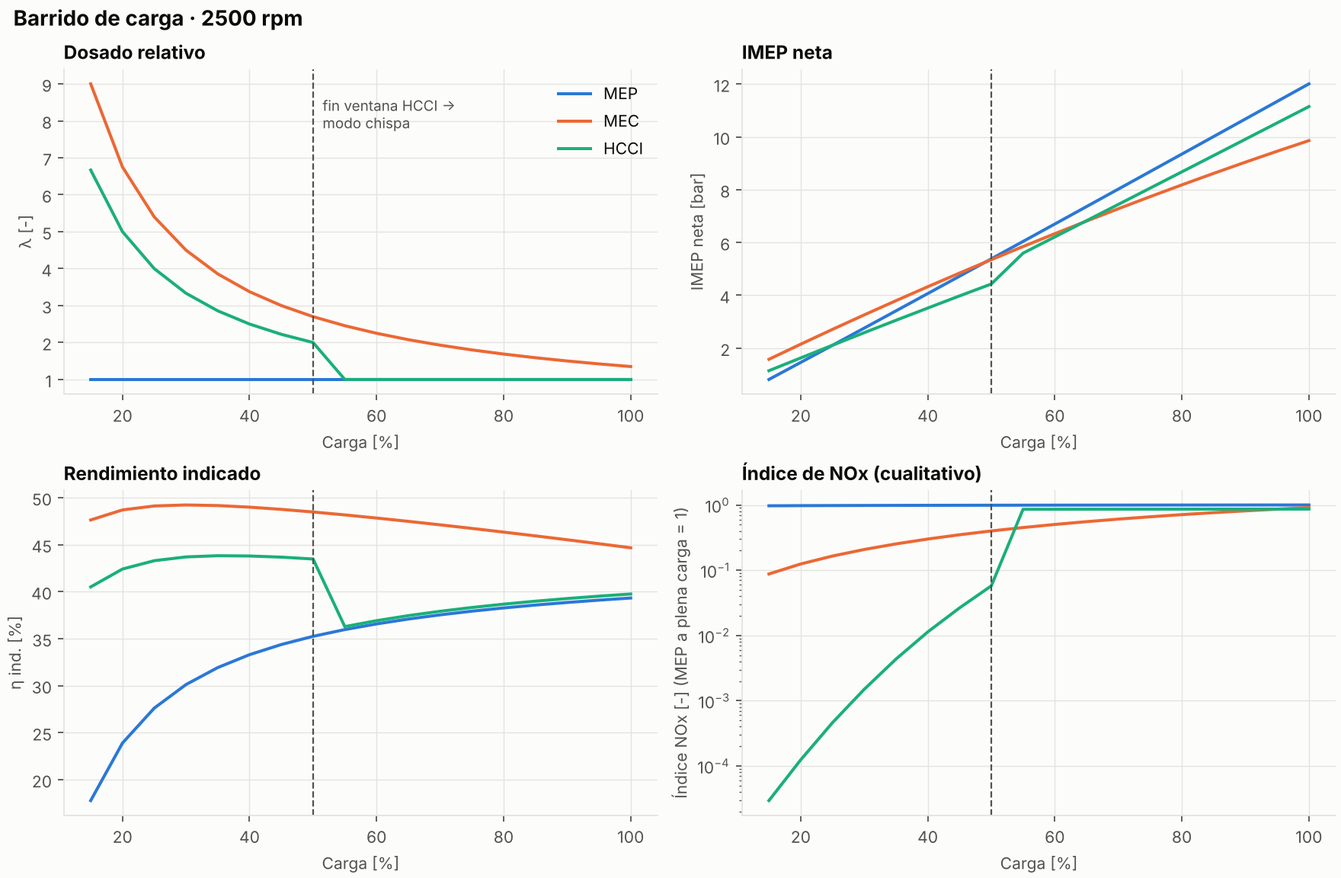
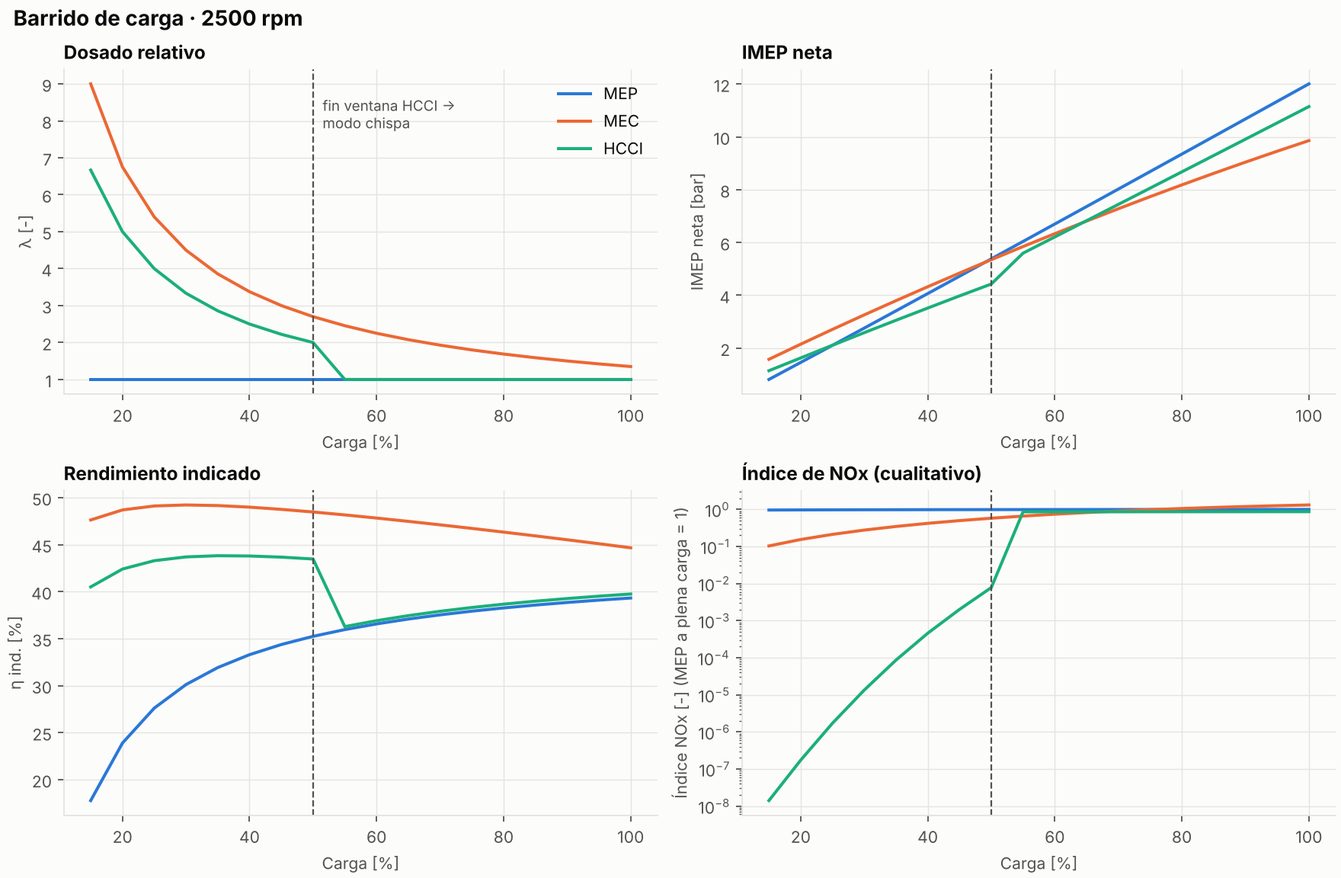
Informe técnico corregido y ampliado; NOx con Zeldovich en equilibrio
- INFORME.md: comparativa MEP/MEC/HCCI, hipótesis con su respuesta,
  combustión anómala y resultados del modelo
- Índice de NOx: T^-1/2·exp(-69090/T)·[O2]^1/2 (Heywood ec. 11.8)

Claude-Session: https://claude.ai/code/session_01TiA9G423HdKVvNT7MMUAoF

diff --git a/motor0d/modelo.py b/motor0d/modelo.py
@@ -248,7 +248,9 @@ def ciclo(mot: Motor, carga: float, n: float, *, geo: Geometria = GEO,
     Tb = Tu + mot.eta_comb * mot.LHV / ((1 + lam_fl * mot.AFR_st) * 1450)  # sin disociación
     Tb = np.where(xb >= 0.01, Tb, np.nan)
     x_o2b = max(0.21 * (lam_fl - 1) / lam_fl, 0.01)       # suelo ~ O2 por disociación
-    tasa = (lam_fl / lam) * xb * np.exp(-38370 / np.nan_to_num(Tb, nan=1.0)) * np.sqrt(x_o2b)
+    Tb_ = np.nan_to_num(Tb, nan=1.0)
+    # Zeldovich con [O] en equilibrio (Heywood, ec. 11.8): d[NO]/dt ∝ T^-1/2·exp(-69090/T)·[O2]^1/2
+    tasa = (lam_fl / lam) * xb * Tb_**-0.5 * np.exp(-69090 / Tb_) * np.sqrt(x_o2b)
     nox = float(np.trapezoid(tasa, th) / (6 * n))
 
     return Resultado(

diff --git a/matlab/simulacion_motores.m b/matlab/simulacion_motores.m
@@ -303,7 +303,8 @@ function r = cicloCerrado(mot, geo, amb, opts, carga, n)
     Tb   = Tu + dTad;  Tb(xb < 0.01) = NaN;               % sin disociación: sobreestima
     r.Tb = Tb;
     xO2b = max(0.21*(lamFl - 1)/lamFl, 0.01);             % suelo ~ O2 por disociación
-    tasa = (lamFl/lambda)*xb.*exp(-38370./Tb)*sqrt(xO2b);  tasa(isnan(tasa)) = 0;
+    % Zeldovich con [O] en equilibrio (Heywood, ec. 11.8): d[NO]/dt ~ T^-1/2 exp(-69090/T) [O2]^1/2
+    tasa = (lamFl/lambda)*xb.*Tb.^-0.5.*exp(-69090./Tb)*sqrt(xO2b);  tasa(isnan(tasa)) = 0;
     r.noxIdx = trapz(th, tasa)/(6*n);                     % integral temporal
 end
 

diff --git a/main.py b/main.py
@@ -28,7 +28,7 @@ def tabla_referencia(ref, carga, n):
         ca50 = f"{r.ca50:+.1f}" if r.ca50 is not None else "–"
         filas.append(f"| {r.motor} | {r.modo} | {r.lam:.2f} | {r.T_ivc:.0f} | {ca50} | "
                      f"{r.imep_n/1e5:.2f} | {r.eta_i*100:.1f} | {r.pmax/1e5:.1f} | "
-                     f"{r.dpmax/1e5:.2f} | {r.Tmax:.0f} | {r.nox/nox_mep:.3f} |")
+                     f"{r.dpmax/1e5:.2f} | {r.Tmax:.0f} | {r.nox/nox_mep:.3g} |")
     return "\n".join(filas)
 
 

diff --git a/INFORME.md b/INFORME.md
@@ -1,0 +1,308 @@
+# MEP, MEC y HCCI: cómo queman, por qué y qué los limita
+
+Informe técnico que acompaña al modelo de este repositorio. Está organizado alrededor de preguntas concretas (las hipótesis que surgieron al estudiar los tres motores), cada una con su respuesta. Los resultados numéricos salen del modelo 0D descrito en el [README](README.md) y se pueden reproducir en el [simulador interactivo](https://maikelgth.github.io/motores-termicos/comparativa-mep-mec-hcci/).
+
+**Contenido**
+
+1. [Los tres motores de un vistazo](#1-los-tres-motores-de-un-vistazo)
+2. [Premezcla y difusión](#2-premezcla-y-difusión)
+3. [MEP: mezcla homogénea y estratificada](#3-mep-mezcla-homogénea-y-estratificada)
+4. [MEC: inyección, movimiento del aire y hollín](#4-mec-inyección-movimiento-del-aire-y-hollín)
+5. [HCCI y SPCCI](#5-hcci-y-spcci)
+6. [Hipótesis planteadas](#6-hipótesis-planteadas)
+7. [Combustión anómala y fallos mecánicos](#7-combustión-anómala-y-fallos-mecánicos)
+8. [Lo que dice el modelo](#8-lo-que-dice-el-modelo)
+9. [Referencias](#9-referencias)
+
+---
+
+## 1. Los tres motores de un vistazo
+
+| | MEP (gasolina) | MEC (diésel) | HCCI |
+|---|---|---|---|
+| Relación de compresión | 9:1 a 13:1 (hasta 14:1 con gasolina de alto octanaje y control de picado) | 15:1 a 22:1 (DI moderno 15–18; IDI hasta 22–23) | 12:1 a 18:1 |
+| Mezcla al encender | Premezclada y homogénea, λ = 1 (estratificada en algunos GDI a carga parcial) | Heterogénea: chorro de líquido en aire caliente | Premezclada, homogénea y pobre (λ ≈ 2–4) o muy diluida con EGR |
+| Inicio de la combustión | Chispa: lo fija el avance de encendido | Autoignición tras la inyección: lo fija el instante de inyección | Autoignición de toda la carga: lo fija la química (p, T, composición) |
+| Tipo de llama | Frente de llama turbulento que barre la cámara | Fase premezclada corta y llama de difusión | Sin frente de llama: reacción casi simultánea en todo el volumen |
+| Control de la carga | Por cantidad: mariposa (pérdidas de bombeo) | Por calidad: cantidad de combustible, sin mariposa | Por calidad, dentro de una ventana estrecha |
+| Contaminantes críticos | CO, HC y NOx, que se tratan juntos con el catalizador de tres vías | NOx y hollín | HC y CO (combustión fría); NOx muy bajo |
+| Postratamiento típico | Catalizador de tres vías (TWC); filtro de partículas en GDI | DOC + DPF + SCR (urea) o trampa de NOx (LNT) | Catalizador de oxidación |
+| Limitación principal | Picado: limita la relación de compresión | Mezcla: limita el régimen; compromiso NOx-hollín | Control de la autoignición; ventana de carga estrecha |
+
+---
+
+## 2. Premezcla y difusión
+
+Una **llama de premezcla** quema una mezcla en la que combustible y aire ya estaban juntos antes de encender. Es la del MEP: la chispa crea un núcleo y un frente de llama avanza por la cámara consumiendo la mezcla fresca.
+
+Una **llama de difusión** quema combustible y aire que llegan separados. La reacción solo ocurre en la superficie donde se encuentran, y la velocidad de combustión queda limitada por lo rápido que se mezclan. Es la del MEC (y la de una vela).
+
+Dos correcciones habituales:
+
+- **La llama de premezcla no es supersónica.** Es una deflagración. La velocidad laminar de una gasolina estequiométrica es de unos 0,3–0,5 m/s; la turbulencia de la cámara la multiplica hasta del orden de 10 m/s, frente a velocidades del sonido de 500–900 m/s en el gas caliente. La combustión de un MEP dura 40–60° de cigüeñal porque la turbulencia crece con el régimen.
+- **La llama de difusión no es "lenta" en sí.** Su velocidad la marca la mezcla, y la mezcla depende de la energía del chorro y del movimiento del aire. Lo que limita al diésel es que, a alto régimen, el tiempo disponible (en milisegundos) se acorta más rápido de lo que se puede acelerar la mezcla. Por eso los diésel de turismo rara vez pasan de 4500–5000 rpm.
+
+**Por qué un MEP no usa difusión.** La gasolina resiste la autoignición (es lo que mide el octanaje), así que no arde de forma fiable al entrar en el aire comprimido. Además, el catalizador de tres vías solo funciona en una ventana muy estrecha alrededor de λ = 1 (del orden de ±0,5 %). Una combustión de difusión, con zonas ricas y pobres, generaría hollín y CO en unas y NOx en otras.
+
+---
+
+## 3. MEP: mezcla homogénea y estratificada
+
+### Homogénea
+
+El combustible entra durante la admisión (inyección en el colector, PFI, o directa temprana, GDI) y tiene toda la admisión y la compresión para mezclarse. En la bujía hay mezcla estequiométrica y el frente de llama puede recorrer toda la cámara. Es el modo de plena carga, porque aprovecha todo el aire.
+
+### Estratificada
+
+Solo es posible con **inyección directa**. A carga parcial se abre la mariposa y se inyecta tarde, al final de la compresión, para formar una nube inflamable alrededor de la bujía rodeada de aire o de mezcla muy pobre. Globalmente la mezcla es pobre.
+
+- **Por qué reduce el bombeo.** En un MEP homogéneo la carga se regula estrangulando el aire con la mariposa. El pistón aspira contra un vacío en el colector y ese trabajo se pierde: es el bombeo (PMEP). Con la mariposa abierta y la carga regulada con el combustible, como en un diésel, el bombeo casi desaparece. En el modelo, el MEP al 40 % de carga pierde 0,66 bar de PMEP frente a 0,05 bar del HCCI.
+- **Por qué no causa picado.** El picado lo produce la autoignición del gas sin quemar de la periferia (*end-gas*). Si esa zona es aire o mezcla muy pobre, el riesgo baja mucho. "Imposible" es demasiado: la estratificación nunca es perfecta. En la práctica el picado deja de ser el límite a carga parcial.
+- **Cuándo se usa.** A carga parcial y régimen moderado: crucero, ciudad a velocidad constante. Al pedir par, la centralita vuelve a homogénea con λ = 1 (o algo rica a plena carga). En retención se corta la inyección.
+- **El problema que no se suele contar.** Con mezcla pobre el catalizador de tres vías no reduce NOx, porque sobra oxígeno en el escape. Los GDI estratificados necesitan una **trampa de NOx (LNT)**: almacena el NOx en forma de nitratos durante el funcionamiento pobre y lo reduce con breves pulsos ricos. Es sensible al azufre del combustible. Ese coste, unido a las normas Euro 6, hizo que la mayoría de fabricantes abandonasen la estratificación y volviesen a GDI homogéneo con λ = 1.
+
+**Inyección y chispa.** En homogéneo están separadas: inyección en admisión, chispa al final de la compresión. En estratificado, el final de la inyección y la chispa quedan muy próximos (unos pocos grados de cigüeñal), porque la chispa tiene que coincidir con la nube en la bujía.
+
+**Cómo se lleva la nube a la bujía.**
+
+- **Guiado por pared.** El chorro choca con un cuenco asimétrico del pistón que lo desvía hacia la bujía, ayudado por el tumble. Es simple, pero moja el pistón: aumentan los HC y las partículas.
+- **Guiado por chorro.** Un inyector central (piezoeléctrico en BMW N53 o Mercedes CGI) pulveriza junto a la bujía y la nube se forma en el aire, sin tocar el pistón. Es más limpio, pero muy sensible a la posición de la bujía y al ensuciamiento.
+
+---
+
+## 4. MEC: inyección, movimiento del aire y hollín
+
+Al final de la compresión de un diésel el aire está a 40–100 bar y **700–900 K** (unos 430–630 °C; más con turbo). El modelo da unos 890 K con r<sub>c</sub> = 17,5. A esas condiciones el gasóleo se autoinflama con un retraso de encendido de alrededor de 1 ms.
+
+### Heterogénea, pero buscando mezclar
+
+La mezcla del diésel es heterogénea por naturaleza: chorro líquido, gotas que se evaporan, vapor rico y aire. El objetivo no es "homogeneizar" antes de quemar, sino mezclar el combustible con el oxígeno lo más rápido posible mientras arde. Donde falta oxígeno se forma hollín, y donde la mezcla está cerca de λ = 1 la temperatura de llama es máxima y se forma NOx. Ese es el compromiso NOx-hollín del diésel.
+
+### Movimiento del aire
+
+Tomando el eje del cilindro como eje z:
+
+- **Swirl.** Rotación del aire alrededor del eje z. Se genera en la admisión con conductos helicoidales o tangenciales y se mantiene durante la compresión. Típico del diésel.
+- **Tumble.** Rotación alrededor de un eje horizontal, perpendicular al del cilindro. Se genera con conductos de admisión casi verticales. Al comprimirse se rompe en turbulencia fina. Típico del MEP.
+- **Squish.** Flujo radial hacia el centro cerca del PMS, cuando la corona plana del pistón se acerca a la culata y expulsa el gas hacia el cuenco (*bowl*).
+
+El diésel necesita más intensidad de mezcla que el MEP porque dispone de milisegundos en vez de una carrera completa.
+
+### IDI y DI
+
+- **IDI (inyección indirecta).** Se inyecta en una precámara (de turbulencia o de combustión) unida al cilindro por un canal. El aire entra en ella a gran velocidad durante la compresión y la mezcla es fácil, con presiones de inyección moderadas (del orden de 100–400 bar). A cambio tiene más superficie de pared y pérdidas de calor y por estrangulamiento: consume más, necesita relaciones de compresión altas (20–23:1) y bujías de precalentamiento para arrancar.
+- **DI (inyección directa).** Se inyecta en el cuenco del pistón. La energía de mezcla la aporta el propio chorro, con presiones de common rail de 1600–2700 bar y orificios de ~0,1 mm. Es más eficiente y ha desplazado a la IDI en turismos.
+
+### Secuencia de inyección (common rail)
+
+La inyección no es continua: la centralita reparte el combustible en varios pulsos por ciclo.
+
+1. **Piloto (una o dos).** Pequeñas cantidades antes de la principal. Calientan la carga y acortan el retraso de la principal, así que se acumula menos combustible antes de encender y la fase premezclada es más suave. Reducen ruido (el "picado diésel") y NOx.
+2. **Principal.** El grueso del combustible. Puede partirse para controlar la forma de la liberación de calor, el ruido y las emisiones. No busca una "combustión isobara real": el ciclo Diesel isobaro es una idealización.
+3. **Post-inyección cercana.** Justo después de la principal. Se quema y aporta turbulencia y temperatura que ayudan a oxidar el hollín formado.
+4. **Post-inyección tardía.** En plena expansión, cuando ya no se quema en el cilindro. El combustible llega al catalizador de oxidación (DOC), se oxida allí y eleva la temperatura del escape para regenerar el filtro de partículas. Su efecto secundario es que parte del combustible acaba en el aceite (dilución).
+
+### El hollín
+
+El hollín son partículas de carbono sólido. Se forma en zonas ricas a 1600–2400 K: el combustible se descompone (pirólisis), forma hidrocarburos aromáticos policíclicos (PAH), estos nuclean partículas primarias de 15–40 nm, que crecen y se aglomeran en cadenas de ~100 nm. La mayor parte se vuelve a oxidar dentro del cilindro; lo que sale es la diferencia entre formación y oxidación.
+
+Supone energía química desperdiciada, ensucia la EGR y el turbo, y es un riesgo sanitario: la IARC clasifica el escape diésel como cancerígeno (grupo 1) desde 2012.
+
+**El filtro de partículas (DPF)** retiene más del 95 % de las partículas en masa y hay que regenerarlo:
+
+- **Regeneración pasiva.** El NO₂ que genera el DOC oxida el hollín a 250–450 °C, en uso normal.
+- **Regeneración activa.** Se sube el escape a ~600 °C con post-inyección tardía para quemar el hollín con oxígeno.
+
+---
+
+## 5. HCCI y SPCCI
+
+### HCCI
+
+Se crea una mezcla homogénea y pobre (o diluida con EGR) y la compresión la lleva a la autoignición, que ocurre casi a la vez en todo el volumen.
+
+- **Ventajas.**
+  - Sin mariposa ni bombeo, con relación de compresión alta y combustión rápida cerca del PMS, el rendimiento se acerca al del diésel.
+  - La mezcla pobre o diluida mantiene la temperatura de combustión baja, por debajo de unos 1800–1900 K, así que el NOx es **muy bajo** (no cero).
+  - Al no haber zonas ricas, el hollín es prácticamente nulo.
+- **Inconvenientes.**
+  - A muy baja carga la combustión queda tan fría (por debajo de unos 1500 K) que el CO no termina de oxidarse y los HC suben: cae el rendimiento de combustión.
+  - Por arriba, la carga está limitada por el **ringing**: al liberar el calor de golpe, el gradiente de presión supera el límite habitual de 5–10 bar/° y aparecen oscilaciones de presión parecidas al picado.
+  - El resultado es una ventana útil de carga estrecha.
+- **El problema de control.** En un MEP el inicio lo marca la chispa y en un MEC la inyección. En el HCCI lo marca la cinética química, que depende de la temperatura y la presión en el cierre de admisión, de la composición (λ, EGR, residuales), del combustible y de la temperatura de las paredes. En transitorios, como pasar de retención a acelerar, todo eso cambia de un ciclo a otro. Los extremos son el fallo de encendido y el ringing. El término *super-knock* no se aplica aquí: designa la pre-ignición a bajo régimen de los MEP turbo (LSPI, sección 7).
+
+**Cómo se controla en la práctica.** Actuando sobre la temperatura de la carga:
+
+- **Retención de gases calientes** mediante cruce negativo de válvulas (NVO) o reapertura de la válvula de escape.
+- **EGR caliente o refrigerada.**
+- **Calentamiento de la admisión.**
+- **Relación de compresión variable.**
+- **Estratificación térmica o de dosado.** Alarga la combustión y suaviza el ringing.
+
+El modelo de este repositorio reproduce la primera palanca. Calcula la autoignición con la integral de Livengood-Wu y busca la temperatura de cierre de admisión que coloca el CA50 en su objetivo.
+
+### SPCCI (Mazda Skyactiv-X)
+
+Es la primera aplicación comercial de encendido por compresión con gasolina. No es HCCI puro: usa la chispa para decidir el momento de la autoignición.
+
+1. **Mezcla de fondo.** Una inyección temprana forma una mezcla pobre y homogénea en casi todo el cilindro. Es demasiado pobre para que una chispa la encienda de forma fiable, pero queda cerca de la autoignición al final de la compresión.
+2. **Zona inflamable en la bujía.** Una segunda inyección, tardía y pequeña, enriquece la zona de la bujía. En global la mezcla sigue siendo pobre; solo esa zona queda cerca de λ = 1.
+3. **Chispa.** Enciende esa zona y genera un frente de llama convencional.
+4. **Autoignición del resto.** La expansión de esa bola de fuego comprime el resto de la carga, que llega a la autoignición. No es una detonación: es la combustión por compresión controlada que se buscaba. Variando el avance de la chispa se controla cuándo ocurre.
+
+Mazda no ha publicado un reparto exacto entre las dos inyecciones, así que no conviene citar porcentajes.
+
+El motor lleva además:
+
+- **Compresor volumétrico ("air supply").** Para poder meter el exceso de aire que exige la mezcla pobre.
+- **Sistema híbrido ligero de 24 V.**
+
+La relación de compresión fue de 16,3:1 en el lanzamiento y bajó a 15,0:1 en la versión actualizada (e-Skyactiv X). Fuera de su ventana trabaja como un MEP convencional, por ejemplo en arranque en frío o a alto régimen. Se ha vendido en Europa (Mazda3, CX-30) y nunca en EE. UU. Mazda prepara como sucesor el Skyactiv-Z; conviene comprobar la disponibilidad actual antes de citarla.
+
+---
+
+## 6. Hipótesis planteadas
+
+### H1. ¿La mezcla estratificada no es altamente inflamable y propensa al picado?
+
+No. Ver [sección 3](#estratificada). La zona rica está en la bujía y quema con un frente de llama controlado. La periferia, donde se produce el picado, tiene aire o mezcla muy pobre. El inconveniente real no es el picado sino el NOx: con mezcla pobre el catalizador de tres vías no lo reduce y hace falta una trampa de NOx.
+
+### H2. ¿Por qué el diésel genera partículas y la gasolina premezclada no?
+
+Por las zonas ricas de la llama de difusión, donde el combustible se descompone sin oxígeno suficiente ([sección 4](#el-hollín)). Una premezcla homogénea a λ = 1 casi no forma hollín. Con inyección directa de gasolina sí aparecen partículas, por el combustible que moja paredes y pistón. Por eso los GDI modernos llevan filtro de partículas (GPF).
+
+### H3. Si la gasolina resiste la autoignición, ¿por qué no un MEC de gasolina?
+
+**Existe, y se investiga activamente.** Se llama GCI (*gasoline compression ignition*) o PPC (*partially premixed combustion*). Lo han desarrollado, entre otros, Delphi (GDCI), Saudi Aramco y la Universidad de Lund.
+
+El argumento de que "el retraso es tan largo que todo explota de golpe" no es correcto. El largo retraso de encendido de la gasolina es justo lo que se aprovecha: da tiempo a premezclar parte del combustible antes de que empiece a arder. Así se reducen a la vez el hollín y el NOx, que es lo que el diésel no consigue. El retraso se controla con varias inyecciones y con la proporción de EGR.
+
+Las dificultades reales son tres:
+
+- **Baja carga y arranque en frío.** La gasolina no llega a autoinflamarse; se recurre a calentar la admisión o retener residuales.
+- **Ruido a alta carga.**
+- **Sistema de inyección.** Necesita una bomba de alta presión capaz de trabajar con gasolina, que lubrica peor que el gasóleo.
+
+Las temperaturas de autoignición que se suelen citar (~250–460 °C para gasolina según su composición, ~210–260 °C para gasóleo) salen de un ensayo a presión atmosférica (ASTM E659). Para un motor lo relevante es el retraso de encendido a la presión y temperatura del cilindro, que es lo que miden el octanaje y el cetanaje.
+
+### H4. En el HCCI, ¿por qué no inyectar desde el PMI o en varios pulsos, como un diésel, para controlar el encendido?
+
+Hay que separar dos ideas.
+
+- **La premisa "no se puede liberar energía mientras el pistón sube" es falsa.** Todos los motores empiezan a quemar antes del PMS. En un MEP la chispa salta 20–40° antes y en un MEC la inyección empieza antes del PMS. Lo que se optimiza es la fase: el CA50 óptimo está en torno a 8–10° después del PMS. Liberar demasiada energía demasiado pronto sí es malo: trabajo negativo, picos de presión y, en el límite, pre-ignición.
+- **Inyectar pronto para "calentar" la carga tiene un equivalente real.** En HCCI con cruce negativo de válvulas (NVO) se inyecta parte del combustible durante el NVO, sobre los gases calientes retenidos. Ese combustible se reforma o se quema en parte y adelanta la autoignición del ciclo siguiente. Es una palanca de control estudiada desde principios de los 2000. Inyectar en el PMI sin más no sirve: el aire está frío y el combustible solo se mezcla.
+- **Inyectar tarde en varios pulsos** destruye la homogeneidad y lleva a zonas ricas y llamas de difusión. Eso ya no es HCCI, es la combustión parcialmente premezclada de la H3. No es inviable: es otro concepto, con otro compromiso de emisiones.
+
+### H5. ¿Por qué no premezclar aire y gasolina fuera y meter la mezcla a presión en el PMS?
+
+Es inviable por tres motivos.
+
+1. **Temperatura.** Comprimir isentrópicamente una mezcla gaseosa de 1 a ~100 bar multiplica su temperatura por 100<sup>0,286</sup> ≈ 3,7: de 300 K a unos 1100 K. Se autoinflamaría en el compresor o en el conducto. Con combustible líquido (common rail, GDI) no pasa: el líquido apenas se calienta al comprimirlo y en el circuito no hay oxígeno.
+2. **Trabajo.** Comprimir gas a esas presiones cuesta un trabajo del orden del que produce el propio motor. Bombear líquido cuesta muy poco.
+3. **Homogeneidad.** Una mezcla inyectada en el PMS sobre aire comprimido formaría una nube rodeada de aire: sería combustión estratificada, no HCCI.
+
+Lo que sí existe es la **inyección directa asistida por aire** (Orbital, usada en motos de 2T y fuerabordas). Un soplo de aire a 5–10 bar atomiza el combustible durante la admisión o el principio de la compresión.
+
+### H6. ¿Cómo funciona realmente la zona rica junto a la bujía en el SPCCI?
+
+Ver [sección 5](#spcci-mazda-skyactiv-x). La idea de inyección partida es correcta. Lo que hay que quitar son el reparto 90/10, que no está documentado, y la palabra "detonación". La zona de la bujía es inflamable porque la segunda inyección, más tardía, no tiene tiempo de diluirse en todo el cilindro. Aun así, la mayor parte del combustible está en la mezcla pobre de fondo, porque esa mezcla ocupa casi todo el volumen.
+
+### H7. ¿Cómo limpia el escape un HCCI o SPCCI si el catalizador de tres vías no funciona con exceso de oxígeno?
+
+- **NOx.** El NO térmico se forma por el mecanismo de Zeldovich (O + N₂ → NO + N; N + O₂ → NO + O). Su velocidad crece de forma exponencial con la temperatura: con oxígeno atómico en equilibrio, proporcional a T<sup>−½</sup>·exp(−69 090/T). No hay un umbral: por debajo de ~1800 K (~1530 °C) la tasa se hace pequeña y por encima se dispara. El HCCI pobre quema por debajo de ese rango, así que forma **muy poco** NOx (no cero). En el modelo, unas 2000 veces menos que el MEP en el mismo punto.
+- **CO y HC.** Con oxígeno sobrante, el catalizador funciona como catalizador de oxidación y los convierte en CO₂ y agua. Esto es necesario, porque la combustión fría del HCCI emite más CO y HC que un MEP.
+- **Fuera de la ventana pobre.** Al pedir par el motor vuelve a λ = 1. El NOx sube, pero entonces el catalizador de tres vías sí lo reduce.
+
+---
+
+## 7. Combustión anómala y fallos mecánicos
+
+| Fallo | Qué ocurre | Dónde | Daños típicos |
+|---|---|---|---|
+| **Fallo de encendido** (*misfire*) | La mezcla no se enciende o la llama se apaga | MEP (chispa débil, mezcla fuera de límites); MEC en frío; HCCI con carga demasiado fría o pobre | HC sin quemar al escape; el catalizador puede sobrecalentarse al oxidarlos; tirones |
+| **Picado** (*knock*) | El *end-gas* se autoinflama antes de que llegue el frente de llama | MEP | Ver abajo |
+| **Pre-ignición** | La mezcla se enciende antes de la chispa por un punto caliente | MEP | Pistón perforado, zona de segmentos rota; puede derivar en picado severo |
+| **LSPI / super-knock** | Pre-ignición aleatoria a bajo régimen y alta carga, iniciada por gotas de aceite o depósitos | MEP turbo de inyección directa | Picos de presión muy por encima de los de diseño: zona de segmentos rota, bielas dobladas en un solo ciclo |
+| **Picado diésel** | Fase premezclada demasiado violenta por un retraso de encendido largo (frío, bajo cetano) | MEC | Ruido; con cargas altas, fatiga. Se corrige con inyección piloto |
+| **Ringing** | Liberación de calor demasiado rápida; gradiente de presión excesivo | HCCI | Oscilaciones de presión, ruido y fatiga de pistón y segmentos |
+| **Gripaje** | Contacto metal-metal entre pistón y camisa al romperse la película de aceite | Todos (clásico en 2T) | Arrastre, material soldado, motor bloqueado |
+
+### Picado
+
+El *end-gas*, comprimido y calentado por el frente de llama que avanza, alcanza la autoignición y libera su energía de golpe. Eso excita ondas de presión en la cámara: oscilaciones acústicas a la frecuencia de resonancia del cilindro, de 5 a 20 kHz. No son "ondas supersónicas que martillean la biela". El primer modo circunferencial vale
+
+$$f \approx \frac{1{,}84\,c}{\pi B}$$
+
+Para B = 86 mm y c ≈ 900 m/s da unos 6 kHz. Es el ruido metálico característico y lo que detectan los sensores de picado.
+
+**Por qué daña.** Las oscilaciones rompen la capa límite térmica junto a las paredes y disparan el flujo de calor local.
+
+- **Daños típicos.** Erosión de la corona del pistón en la zona del *end-gas* (aspecto de picaduras), rotura de la zona de segmentos y sobrecalentamiento del pistón, que puede acabar en gripaje.
+- **Con picado severo y sostenido.** Pueden sufrir los cojinetes de biela y la junta de culata. Tras un episodio grave conviene revisar bielas y cojinetes, pero el daño primario está en el pistón.
+
+**Por qué limita la relación de compresión del MEP.** El MEP comprime mezcla, no aire. Subir la relación de compresión eleva la presión y la temperatura del *end-gas*, y el límite lo pone el octanaje del combustible. Con gasolina de 95 octanos (RON) eso deja la relación en torno a 10–12:1 (13–14:1 con soluciones específicas). El diésel comprime solo aire y el problema no existe.
+
+### Pre-ignición y LSPI
+
+La pre-ignición enciende la mezcla durante la compresión, antes de la chispa, por un electrodo o una válvula demasiado calientes o por depósitos incandescentes. La combustión empieza demasiado pronto, la presión máxima llega antes del PMS y el pistón recibe un flujo de calor muy alto. El daño típico es un agujero fundido en el centro de la corona.
+
+El LSPI es su versión en los MEP turbo modernos: ocurre a bajo régimen y alta carga, de forma aleatoria. Puede romper la zona de segmentos o doblar una biela en uno o pocos ciclos. Los aceites con formulación anti-LSPI (normas API SP e ILSAC GF-6) se crearon para eso.
+
+### Gripaje
+
+Es un fallo mecánico, no de combustión, aunque una combustión anómala puede provocarlo. Se produce cuando la película de aceite entre pistón y camisa se rompe. Las causas habituales son:
+
+- **Falta de aceite o aceite degradado.**
+- **Sobrecalentamiento.** El pistón de aluminio dilata más que la camisa y se come la holgura.
+- **Picado sostenido.** Sobrecalienta el pistón.
+
+Es clásico en los motores de 2T con lubricación por mezcla. Si la mezcla entra pobre, entra a la vez menos aceite y el motor se calienta más.
+
+---
+
+## 8. Lo que dice el modelo
+
+Punto de referencia: 40 % de carga, 2500 rpm, misma geometría para los tres motores (2,0 L).
+
+| | MEP | MEC | HCCI |
+|---|---|---|---|
+| λ | 1,00 | 3,38 | 2,50 |
+| Bombeo, PMEP [bar] | 0,66 | 0,05 | 0,05 |
+| Rendimiento indicado [%] | 33,3 | 49,0 | 43,8 |
+| p máx [bar] | 25,6 | 61,1 | 48,3 |
+| dp/dθ máx [bar/°] | 1,09 | 4,46 | 3,74 |
+| T máx media [K] | 2674 | 1425 | 1990 |
+| Índice de NOx (MEP = 1) | 1 | 0,43 | 0,0005 |
+
+- **MEP.** El bombeo explica la mayor parte de su desventaja a carga parcial.
+- **MEC.** Su temperatura *media* es la más baja, pero su NOx no lo es. La llama de difusión arde localmente a λ ≈ 1 y es esa temperatura local la que cuenta. Un modelo de una sola zona no lo capta; el índice de NOx del modelo lo corrige evaluando la cinética a la temperatura de llama estequiométrica.
+- **HCCI.** Queda cerca del diésel en rendimiento, con un NOx varios órdenes de magnitud menor. A cambio exige mantener la temperatura de cierre de admisión dentro de una ventana de unos 50 K (figura de control).
+
+![Barrido de carga](figs/barrido_carga.png)
+
+![Control HCCI](figs/control_hcci.png)
+
+**Límites del modelo.** Es una herramienta para entender tendencias y mecanismos; no predice valores absolutos.
+
+- **Ciclo cerrado ideal**, sin intercambio de gases.
+- **Rendimiento volumétrico supuesto**, no calculado.
+- **Correlación de autoignición extrapolada** por encima de 23 atm.
+- **Duración de la combustión del HCCI fija.** Por eso no capta que adelantar la fase también acelera la combustión.
+- **Índice de NOx cualitativo**, que no da ppm.
+
+Están todos detallados en el [README](README.md#hipótesis-y-limitaciones).
+
+---
+
+## 9. Referencias
+
+- Heywood, J. B. *Internal Combustion Engine Fundamentals*, 2.ª ed. McGraw-Hill, 2018. Formación de NO (cap. 11), combustión en MEP y MEC (caps. 9–10), picado (cap. 9).
+- Zhao, F., Lai, M.-C., Harrington, D. L. "Automotive spark-ignited direct-injection gasoline engines". *Progress in Energy and Combustion Science* 25, 1999.
+- Dec, J. E. "Advanced compression-ignition engines: understanding the in-cylinder processes". *Proceedings of the Combustion Institute* 32, 2009.
+- Eng, J. A. "Characterization of pressure waves in HCCI combustion". SAE 2002-01-2859.
+- Kalghatgi, G. T. et al. "Advantages of fuels with high resistance to auto-ignition in late-injection, low-temperature, compression ignition combustion". SAE 2006-01-3385.
+- Sellnau, M. et al. "Full-time gasoline direct-injection compression ignition (GDCI) for high efficiency and low NOx and PM". SAE 2012-01-0384.
+- Livengood, J. C., Wu, P. C. "Correlation of autoignition phenomena in internal combustion engines and rapid compression machines". *5th Symp. (Int.) on Combustion*, 1955.
+- He, X. et al. "An experimental and modeling study of iso-octane ignition delay times under HCCI conditions". *Combustion and Flame* 142, 2005.
+- IARC. *Diesel and gasoline engine exhausts and some nitroarenes*. Monographs vol. 105, 2014.
+- SlashGear. "What happened to the Mazda Skyactiv-X engine?". Relaciones de compresión y mercados del Skyactiv-X.

diff --git a/README.md b/README.md
@@ -6,6 +6,8 @@ El punto central es el **control de la autoignición del HCCI**. El inicio de co
 
 **[Simulador interactivo →](https://maikelgth.github.io/motores-termicos/comparativa-mep-mec-hcci/)** Mismo modelo portado a JavaScript; funciona en el navegador.
 
+**[Informe técnico →](INFORME.md)** Cómo queman los tres motores, qué los limita y las hipótesis planteadas, con su respuesta.
+
 ![Ciclo de referencia](figs/ciclo_referencia.png)
 
 ## Resultados
@@ -15,12 +17,12 @@ Punto de referencia: 40 % de carga, 2500 rpm.
 | Motor | Modo | λ | T IVC [K] | CA50 [°] | IMEP neta [bar] | η ind. [%] | p máx [bar] | dp/dθ máx [bar/°] | NOx (rel.) |
 |---|---|---|---|---|---|---|---|---|---|
 | MEP | Chispa, mariposa | 1.00 | 320 | +3.9 | 4.07 | 33.3 | 25.6 | 1.09 | 1.000 |
-| MEC | Difusión | 3.38 | 330 | +3.9 | 4.33 | 49.0 | 61.1 | 4.46 | 0.304 |
-| HCCI | Autoignición | 2.50 | 461 | +6.0 | 3.52 | 43.8 | 48.3 | 3.74 | 0.011 |
+| MEC | Difusión | 3.38 | 330 | +3.9 | 4.33 | 49.0 | 61.1 | 4.46 | 0.43 |
+| HCCI | Autoignición | 2.50 | 461 | +6.0 | 3.52 | 43.8 | 48.3 | 3.74 | 0.0005 |
 
 - **MEP**: el estrangulamiento hunde el rendimiento a carga parcial (bombeo). Es el motivo de fondo para buscar alternativas pobres.
 - **MEC**: es el más eficiente, pero su llama de difusión arde a λ local ≈ 1, así que genera NOx aunque la mezcla global sea muy pobre.
-- **HCCI**: rendimiento cercano al diésel con un NOx unas 90 veces menor que el MEP. A cambio, su ventana útil acaba en λ ≈ 2 (≈ 50 % de carga) por el gradiente de presión (*ringing*) y exige un control preciso de la temperatura de la carga.
+- **HCCI**: rendimiento cercano al diésel con un NOx unas 2000 veces menor que el MEP (índice cualitativo: indica el orden de magnitud, no un valor medido). A cambio, su ventana útil acaba en λ ≈ 2 (≈ 50 % de carga) por el gradiente de presión (*ringing*) y exige un control preciso de la temperatura de la carga.
 
 ### Barrido de carga
 

diff --git a/resultados/tabla_referencia.md b/resultados/tabla_referencia.md
@@ -2,6 +2,6 @@ Punto de referencia: carga 40%, 2500 rpm
 
 | Motor | Modo | λ | T IVC [K] | CA50 [°] | IMEP neta [bar] | η ind. [%] | p máx [bar] | dp/dθ máx [bar/°] | T máx [K] | NOx (rel.) |
 |---|---|---|---|---|---|---|---|---|---|---|
-| MEP | MEP | 1.00 | 320 | +3.9 | 4.07 | 33.3 | 25.6 | 1.09 | 2674 | 1.000 |
-| MEC | MEC | 3.38 | 330 | +3.9 | 4.33 | 49.0 | 61.1 | 4.46 | 1425 | 0.304 |
-| HCCI | HCCI | 2.50 | 461 | +6.0 | 3.52 | 43.8 | 48.3 | 3.74 | 1990 | 0.011 |
+| MEP | MEP | 1.00 | 320 | +3.9 | 4.07 | 33.3 | 25.6 | 1.09 | 2674 | 1 |
+| MEC | MEC | 3.38 | 330 | +3.9 | 4.33 | 49.0 | 61.1 | 4.46 | 1425 | 0.428 |
+| HCCI | HCCI | 2.50 | 461 | +6.0 | 3.52 | 43.8 | 48.3 | 3.74 | 1990 | 0.000467 |
